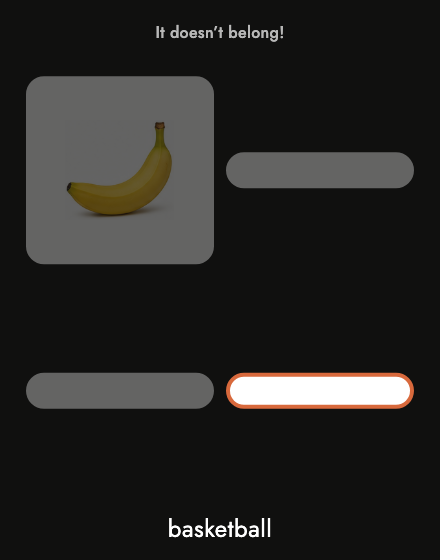
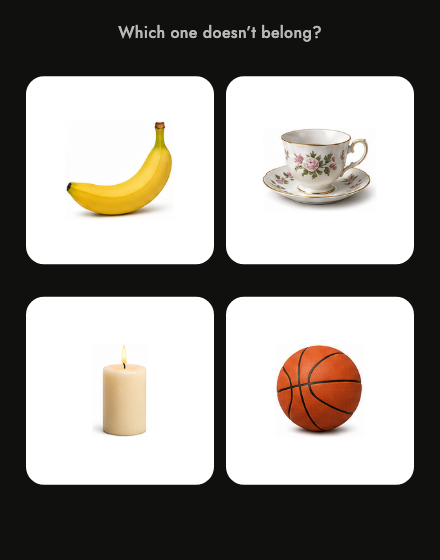
fix(bible): card games show real deck art — precache Image.asset in goldens
The card-game stage plates (odd-one-out, name-it, whats-missing, memory)
rendered as empty white mats because Image.asset decodes asynchronously
and pumpAndSettle snapshotted before the art painted. The gallery-critic
flagged "empty white lozenges / near-blank name-it"; the root cause was
the golden harness, not the app. Fix: precacheImage every Image after
pumpWidget (tester.runAsync) so deck art paints before the snapshot. All
four card stages now show real photos.

Also: the odd-one-out gallery scene now shows the pre-reveal board
("which one doesn't belong?", all four cards bright) instead of the
dimmed reveal state, which read as half-loaded.

Closes the gallery-critic loop end to end: flag -> diagnose -> fix ->
re-render. No app code changed (test harness + bible PNGs only).

diff --git a/test/golden/game_gallery_test.dart b/test/golden/game_gallery_test.dart
@@ -132,7 +132,7 @@ void main() {
         },
       ],
       'i': 0,
-      'r': true,
+      'r': false,
       'd': false,
     };
     return ColoredBox(
@@ -211,6 +211,15 @@ void _scene(
           ),
         ),
       );
+      // Deck-art `Image.asset`s decode asynchronously — without this the
+      // snapshot fires before they paint and the card stages render as empty
+      // white mats. Precache every Image so the card games show real art.
+      await tester.runAsync(() async {
+        for (final element in find.byType(Image).evaluate()) {
+          final image = element.widget as Image;
+          await precacheImage(image.image, element);
+        }
+      });
       await tester.pumpAndSettle(const Duration(seconds: 1));
       await expectLater(
         find.byType(MaterialApp),
